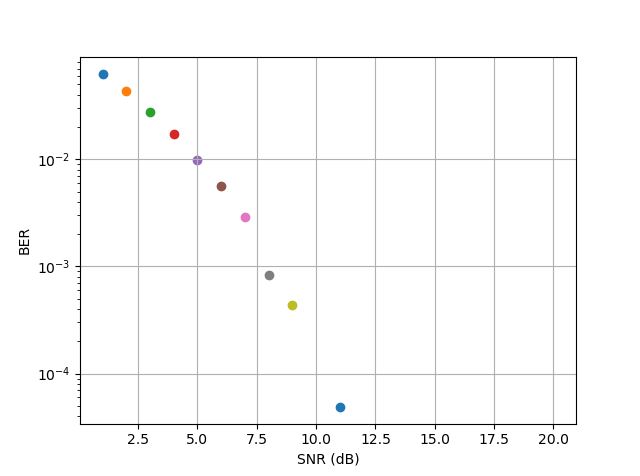
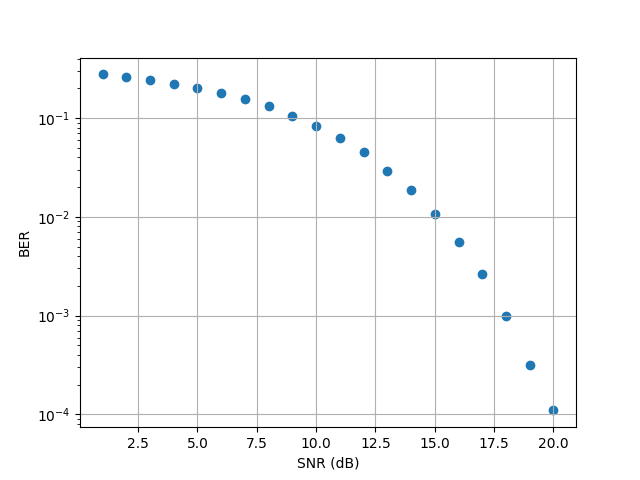
updated

diff --git a/docs/source/demodulation.py b/docs/source/demodulation.py
@@ -213,6 +213,13 @@ def demapper(symbols_I, symbols_Q, packetSize, threshold = 3.0):
     Ns = packetSize // 4
     bits_I = []
     bits_Q = []
+    
+    size_diff = len(symbols_I) - len(symbols_Q)
+    if size_diff > 0:
+        symbols_Q = np.concatenate((symbols_Q, np.zeros(size_diff)))
+    elif size_diff < 0:
+        symbols_I = np.concatenate((symbols_I, np.zeros(abs(size_diff))))
+        
     for i in range(Ns):
         if symbols_I[i] >= 0 and symbols_I[i] <= threshold:
             bits_I.append(1)

diff --git a/docs/example.py b/docs/example.py
@@ -59,8 +59,8 @@ def QAMsys(SNR, plot = 1):
    template = b
 
    # Oscillator
-   delta_phase = np.random.normal(0, np.pi / 3, 1)
-   delta_freq = np.random.normal(0, 20, 1)
+   delta_phase = 0 #np.random.normal(0, np.pi / 3, 1)
+   delta_freq = 0 #np.random.normal(0, 20, 1)
    
    (loCos_TX, t) = qf.modulation.oscillator(0, 4e-4, 2 /
                                  (Fif * K),  Fif + delta_freq, delta_phase + np.pi / 2)

diff --git a/docs/source/BER_SNR_analysis.py b/docs/source/BER_SNR_analysis.py
@@ -13,7 +13,7 @@ def SNR_BER_analysis():
     """Analyze the BER for each SNR value."""
     plt.close('all')
 
-    n_tests_per_snr = 50
+    n_tests_per_snr = 400
     max_snr = 20
 
     SNR_values = np.arange(1, max_snr + 1)
